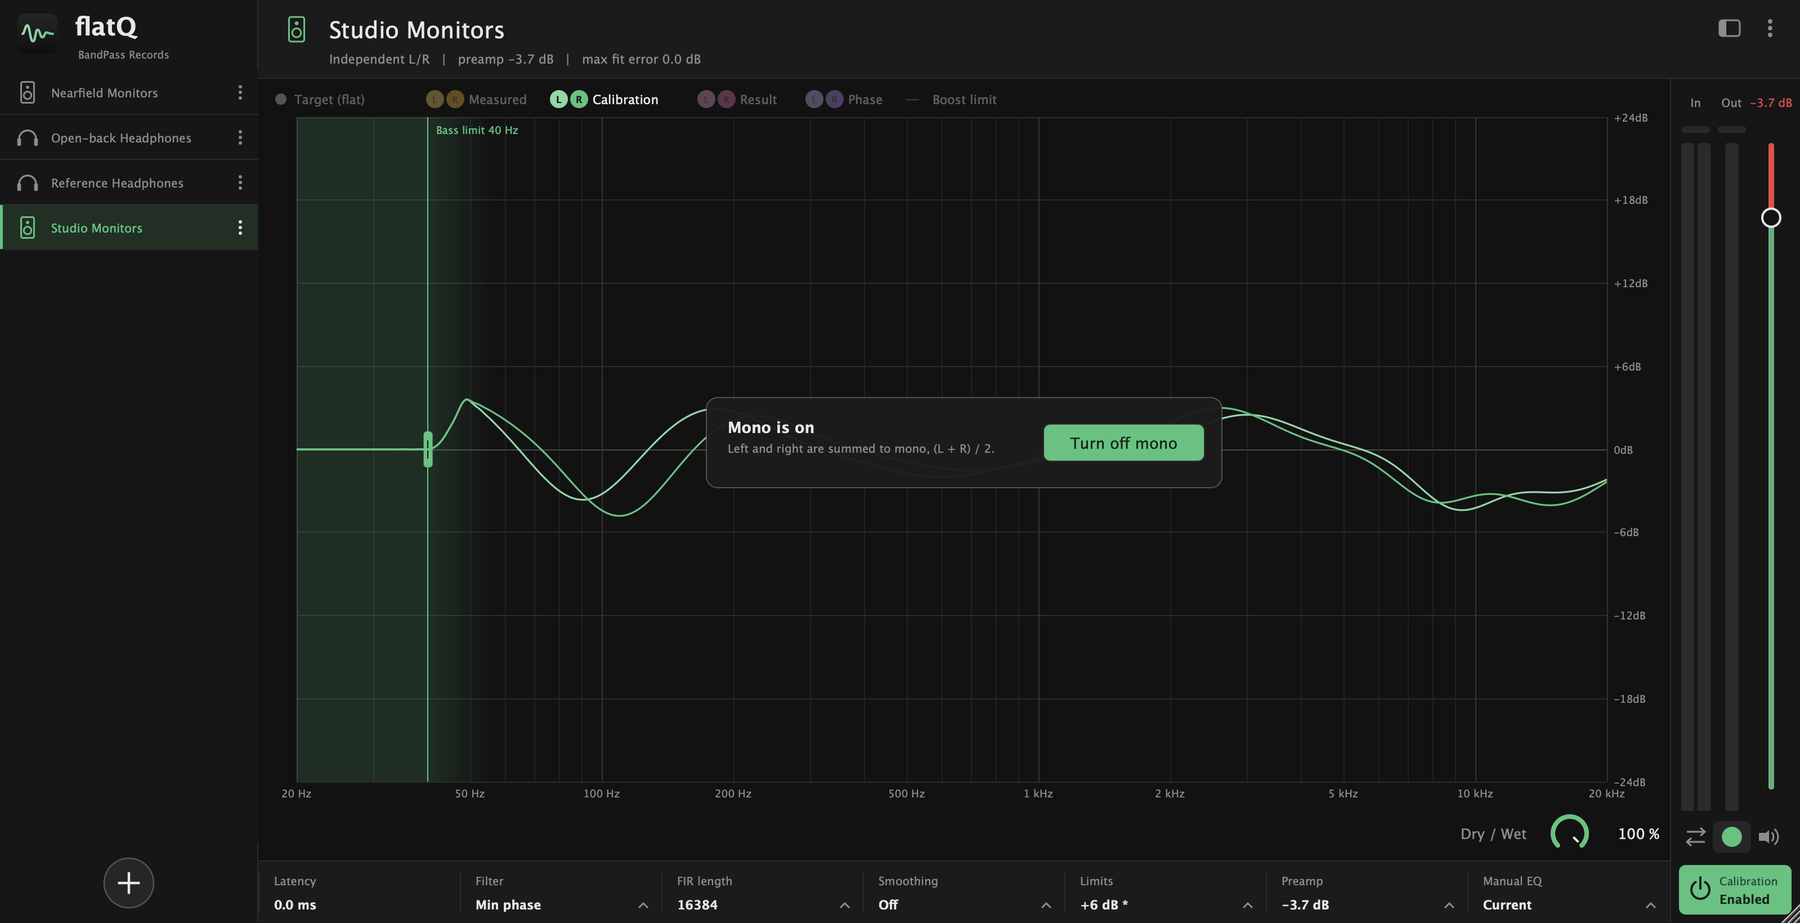
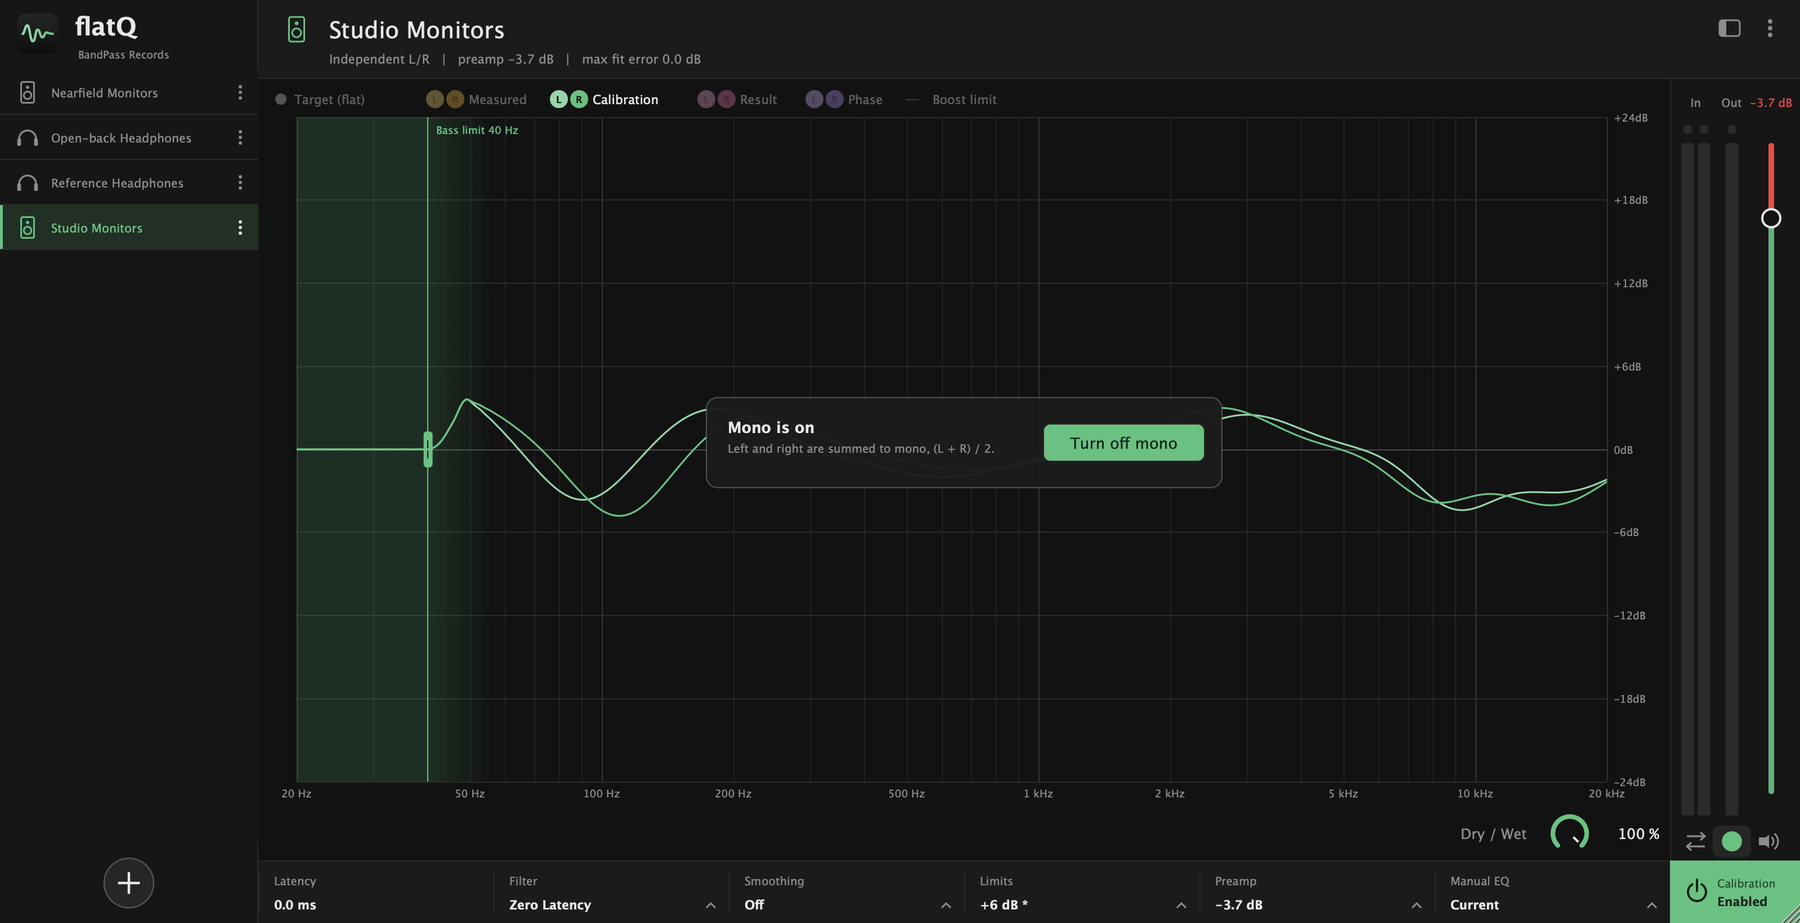
Screenshots for the new layout; docs and home page for the three filter types and the clip dots

diff --git a/docs/index.html b/docs/index.html
@@ -63,7 +63,7 @@
     <a href="#window">The window</a>
     <a href="#profiles">Profiles</a>
     <a href="#graph">The graph</a>
-    <a href="#filter">Filter and FIR length</a>
+    <a href="#filter">Filter type</a>
     <a href="#limits">Limits</a>
     <a href="#smoothing">Smoothing</a>
     <a href="#preamp">Preamp</a>
@@ -102,7 +102,7 @@
         <div><dt>Left bar</dt><dd>Your profile library. The icon says whether a profile is for headphones or speakers. The round <b>+</b> adds a profile.</dd></div>
         <div><dt>Header</dt><dd>The loaded profile, and a summary: whether both channels share one curve or are independent, the preamp, and the <b>max fit error</b>, which is how far the filter ends up from the ideal curve.</dd></div>
         <div><dt>Graph</dt><dd>The correction, drawn for the left and right channels. See <a href="#graph">The graph</a>.</dd></div>
-        <div><dt>Bottom row</dt><dd>Latency and the settings that shape the filter: Filter, FIR length, Smoothing, Limits, Preamp and Manual EQ. Click one to open its options.</dd></div>
+        <div><dt>Bottom row</dt><dd>Latency and the settings that shape the filter: Filter, Smoothing, Limits, Preamp and Manual EQ. Click one to open its options.</dd></div>
         <div><dt>Right strip</dt><dd>Input and output meters with clip lights, the output fader, and the buttons to swap channels, sum to mono and mute. At the bottom, the calibration switch.</dd></div>
         <div><dt>Dry / Wet</dt><dd>Mixes the original sound with the corrected one. 100 % is fully corrected.</dd></div>
       </dl>
@@ -138,27 +138,26 @@
         <div><dt>Measured</dt><dd>What your headphones or speakers do, as the profile describes them.</dd></div>
         <div><dt>Calibration</dt><dd>The correction flatQ applies. It is drawn by default.</dd></div>
         <div><dt>Result</dt><dd>Measured plus Calibration. It should land on the flat target.</dd></div>
-        <div><dt>Phase</dt><dd>The phase of the correction, from −180° to +180° (scale on the right edge of the graph). It is off by default. With linear phase it is a flat line at 0°; minimum phase and low latency bend the phase a little where the correction is strong.</dd></div>
+        <div><dt>Phase</dt><dd>The phase of the correction, from −180° to +180° (scale on the right edge of the graph). It is off by default. With Linear Phase it is a flat line at 0°; Mixed and Zero Latency bend the phase a little where the correction is strong.</dd></div>
         <div><dt>Boost limit</dt><dd>The dashed ceiling some profiles carry for how much they may be boosted. It only shows when the profile has one.</dd></div>
       </dl>
       <figure class="app-window"><img data-zoom src="../img/shots/main-speakers.png" alt="All curves shown for a speaker profile"><figcaption>Measured (yellow), Calibration (green) and Result (pink) for a speaker profile. The shaded area on the left is the bass limit.</figcaption></figure>
       <figure class="app-window"><img data-zoom src="../img/shots/main-headphones.png" alt="All curves shown for a headphone profile"><figcaption>The same view for a headphone profile.</figcaption></figure>
-      <figure class="app-window"><img data-zoom src="../img/shots/phase.png" alt="The Phase curve shown with Calibration"><figcaption>Phase (lilac) next to Calibration, in minimum phase.</figcaption></figure>
+      <figure class="app-window"><img data-zoom src="../img/shots/phase.png" alt="The Phase curve shown with Calibration"><figcaption>Phase (lilac) next to Calibration, in Zero Latency.</figcaption></figure>
       <h3>Bass limit</h3>
       <p>Many speakers cannot play deep bass, and asking for a huge boost there only wastes headroom. Drag the green line on the graph to choose a frequency: <b>boosts below it are cancelled</b>, and the allowed boost rises smoothly back to normal a little above the line. The shaded area shows where the limit applies. Drag the line all the way left to turn it off.</p>
     </section>
 
     <section id="filter">
-      <h2>Filter and FIR length</h2>
-      <p>The <b>Filter</b> setting decides how the correction is built.</p>
-      <figure class="app-window"><img data-zoom src="../img/shots/panel-filter.png" alt="The Filter options"><figcaption>The Filter options.</figcaption></figure>
+      <h2>Filter type</h2>
+      <p>The <b>Filter</b> setting decides how the correction is built. Click it in the bottom row to read about each type.</p>
+      <figure class="app-window"><img data-zoom src="../img/shots/panel-filter.png" alt="The Filter type panel"><figcaption>The Filter type panel, with a short explanation of each type.</figcaption></figure>
       <dl class="def">
-        <div><dt>Minimum phase (FIR)</dt><dd>The default. Exact, with about zero latency and no pre-ringing. A good choice for almost everything.</dd></div>
-        <div><dt>Linear phase (FIR)</dt><dd>Exact and perfectly symmetric, but it adds latency (half the FIR length). Use it for critical listening when latency does not matter.</dd></div>
-        <div><dt>Low latency (IIR)</dt><dd>About zero latency and approximate. Good for monitoring while you record. The <b>IIR resolution</b> chooses between Normal (6 bands per octave, light on the CPU) and High (48 bands per octave, about 0.1 dB error, about 8 times the CPU).</dd></div>
+        <div><dt>Zero Latency</dt><dd>The default. Adds no latency, so it suits recording and live monitoring. It shifts the phase where the correction is strong, mostly in the bass.</dd></div>
+        <div><dt>Mixed</dt><dd>About 10 ms of latency, with half the phase shift of Zero Latency and very little pre-ringing. A good compromise for mixing.</dd></div>
+        <div><dt>Linear Phase</dt><dd>No phase distortion at all: every frequency arrives together. The price is latency (half the resolution) and a little pre-ringing before sharp changes. Best for critical listening and mastering.</dd></div>
       </dl>
-      <p><b>FIR length</b> is the number of taps of the FIR filter. More taps resolve the bass better; fewer taps use less CPU.</p>
-      <figure class="app-window"><img data-zoom src="../img/shots/panel-fir.png" alt="The FIR length options"><figcaption>FIR length: 4096 to 65536 taps, 16384 by default.</figcaption></figure>
+      <p><b>Resolution</b> is the length of the filter, from 4096 to 65536 taps (16384 by default). More taps resolve the bass better; fewer taps use less CPU, and Linear Phase adds less latency.</p>
       <p>The <b>Latency</b> readout in the bottom row always shows the delay the current choice adds.</p>
     </section>
 
@@ -206,7 +205,7 @@
       <h2>Output controls</h2>
       <p>The strip on the right is the last stage of the plug-in.</p>
       <ul>
-        <li><b>In / Out meters</b> with a thin <b>clip bar</b> above each. The bar turns red when the level reaches 0 dBFS and stays red until you click it.</li>
+        <li><b>In / Out meters</b> with two small <b>clip dots</b> above each, one per channel (a single dot when the output is mono). A dot turns red when its channel reaches 0 dBFS and stays red until you click it.</li>
         <li><b>Output fader.</b> The level shows above it. The red part at the top marks the levels above the profile's limit.</li>
         <li><b>Swap L/R</b> exchanges the two channels.</li>
         <li><b>Mono</b> sums left and right.</li>
@@ -248,7 +247,7 @@
         <li><b>Start from a profile that matches your gear</b>, then listen with the calibration on and off. The change should sound like a more even, less coloured version of the same music.</li>
         <li><b>If the bass sounds boomy or pumps</b>, lower the max boost or raise the bass limit.</li>
         <li><b>If the treble sounds metallic</b>, try more smoothing, or lower the treble gain.</li>
-        <li><b>For tracking</b>, use the low latency (IIR) filter; for mixing and mastering, minimum phase.</li>
+        <li><b>For tracking</b>, use Zero Latency; for mixing, Mixed; for mastering and critical listening, Linear Phase.</li>
         <li><b>Do not leave it on when you export</b> a mix: use Skip on offline export, or switch the calibration off.</li>
       </ul>
     </section>

diff --git a/index.html b/index.html
@@ -134,9 +134,9 @@
       <p class="section-subtitle">Pick the trade-off between latency and phase accuracy that suits the job.</p>
     </div>
     <div class="grid">
-      <div class="card"><p class="eyebrow mono">Default</p><h3>Minimum-phase FIR</h3><p>A smooth, natural correction with no pre-ringing. 4096 to 65536 taps; 16384 by default.</p></div>
-      <div class="card"><p class="eyebrow mono">Accuracy</p><h3>Linear-phase FIR</h3><p>Perfectly symmetric, for when phase accuracy matters more than latency.</p></div>
-      <div class="card"><p class="eyebrow mono">Low latency</p><h3>IIR</h3><p>Peaking filters with 6 or 48 bands per octave, for monitoring while you record.</p></div>
+      <div class="card"><p class="eyebrow mono">Default</p><h3>Zero Latency</h3><p>Adds no latency, so it suits recording and live monitoring. It shifts the phase a little where the correction is strong.</p></div>
+      <div class="card"><p class="eyebrow mono">Compromise</p><h3>Mixed</h3><p>About 10 ms of latency, half the phase shift and very little pre-ringing. A good fit for mixing.</p></div>
+      <div class="card"><p class="eyebrow mono">Accuracy</p><h3>Linear Phase</h3><p>No phase distortion at all, for critical listening and mastering, at the cost of latency.</p></div>
       <div class="card"><p class="eyebrow mono">Manual</p><h3>31-band trim</h3><p>Adjust each third-octave band on top of the profile, per channel or linked, and save the result as a new profile.</p></div>
       <div class="card"><p class="eyebrow mono">Export</p><h3>Skip on offline export</h3><p>Pass the audio through untouched during offline renders, so a mixdown never carries your monitor correction.</p></div>
       <div class="card"><p class="eyebrow mono">Targets</p><h3>Flat, or a curve you prefer</h3><p>Ships with the AutoEq target curves, such as Harman, for importing a measurement against the target you like.</p></div>
